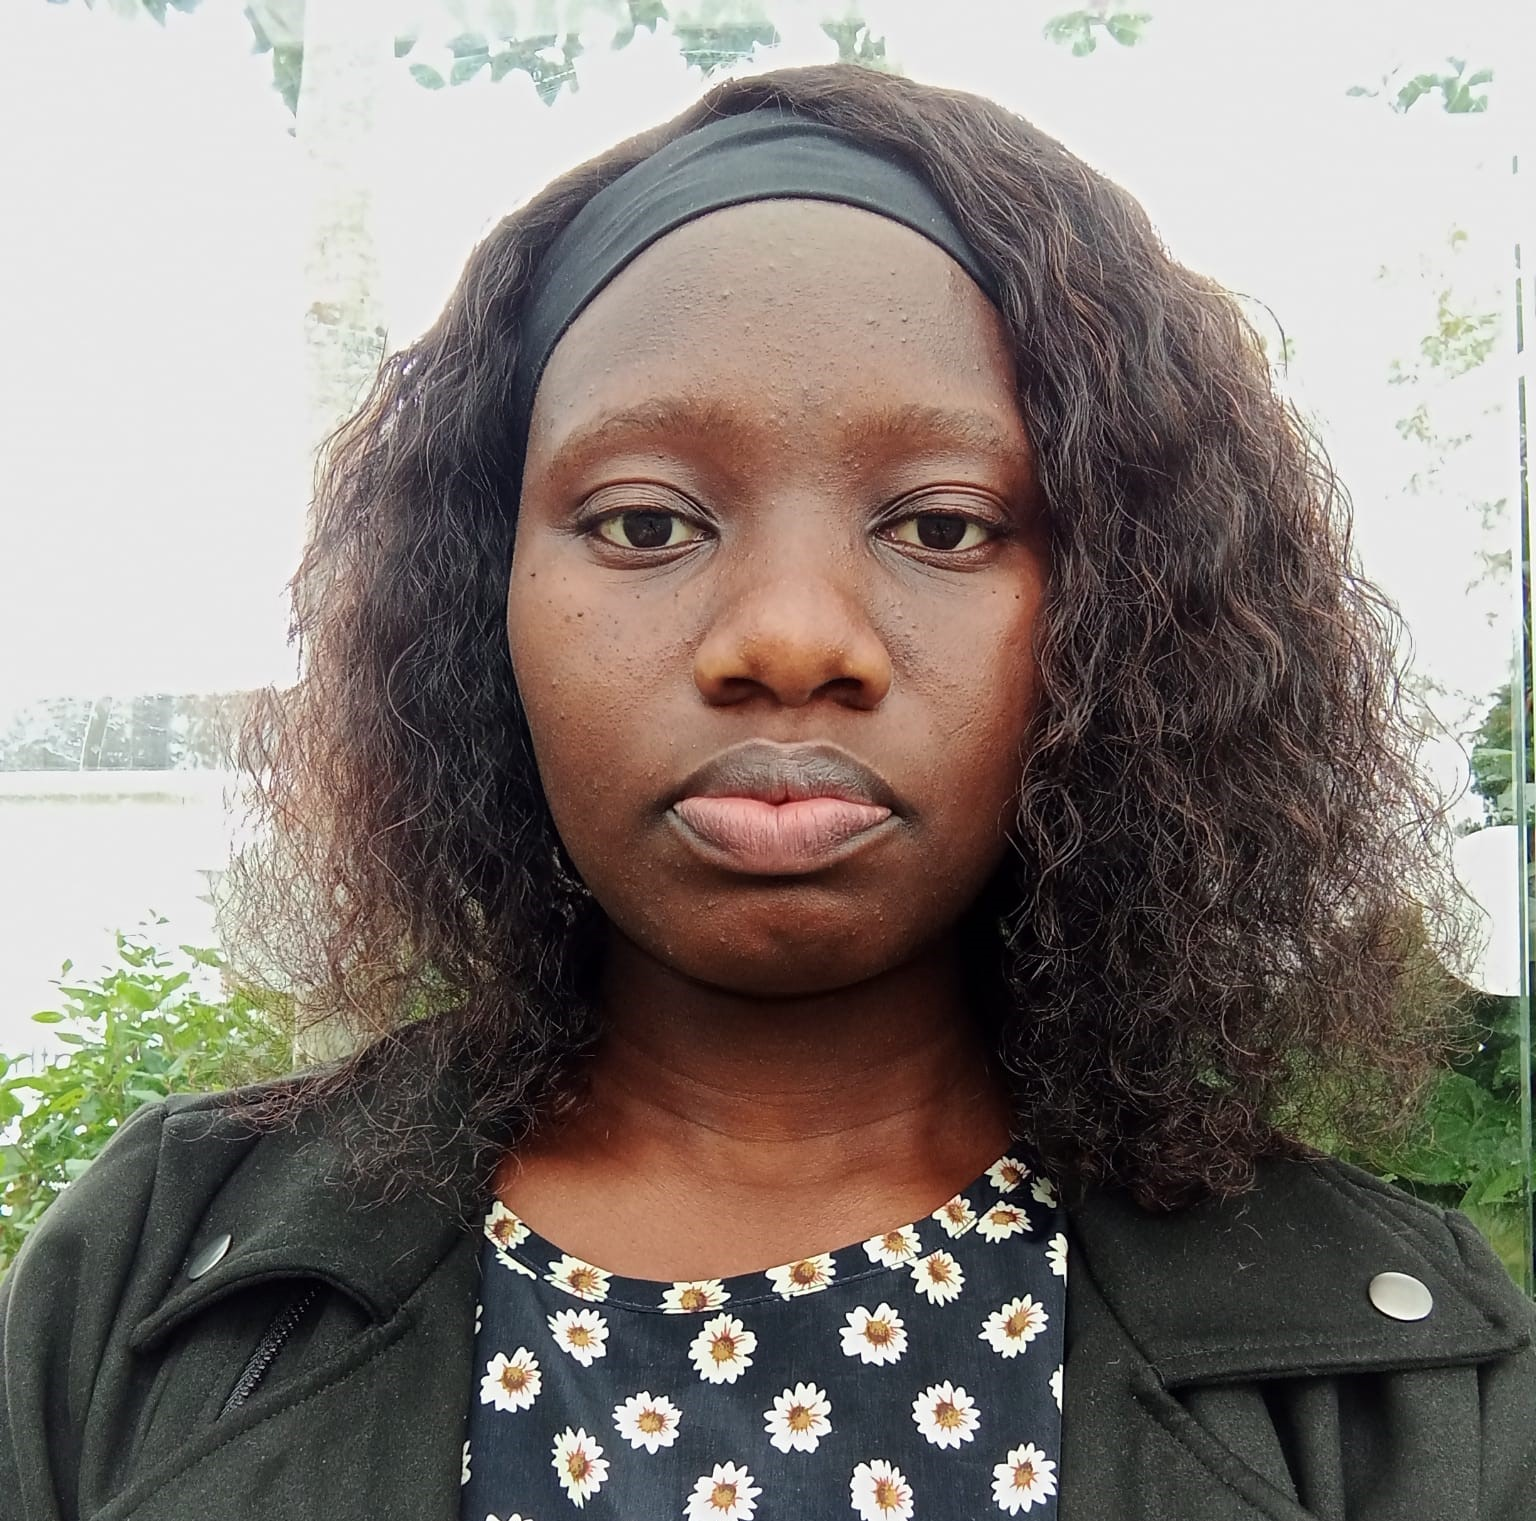
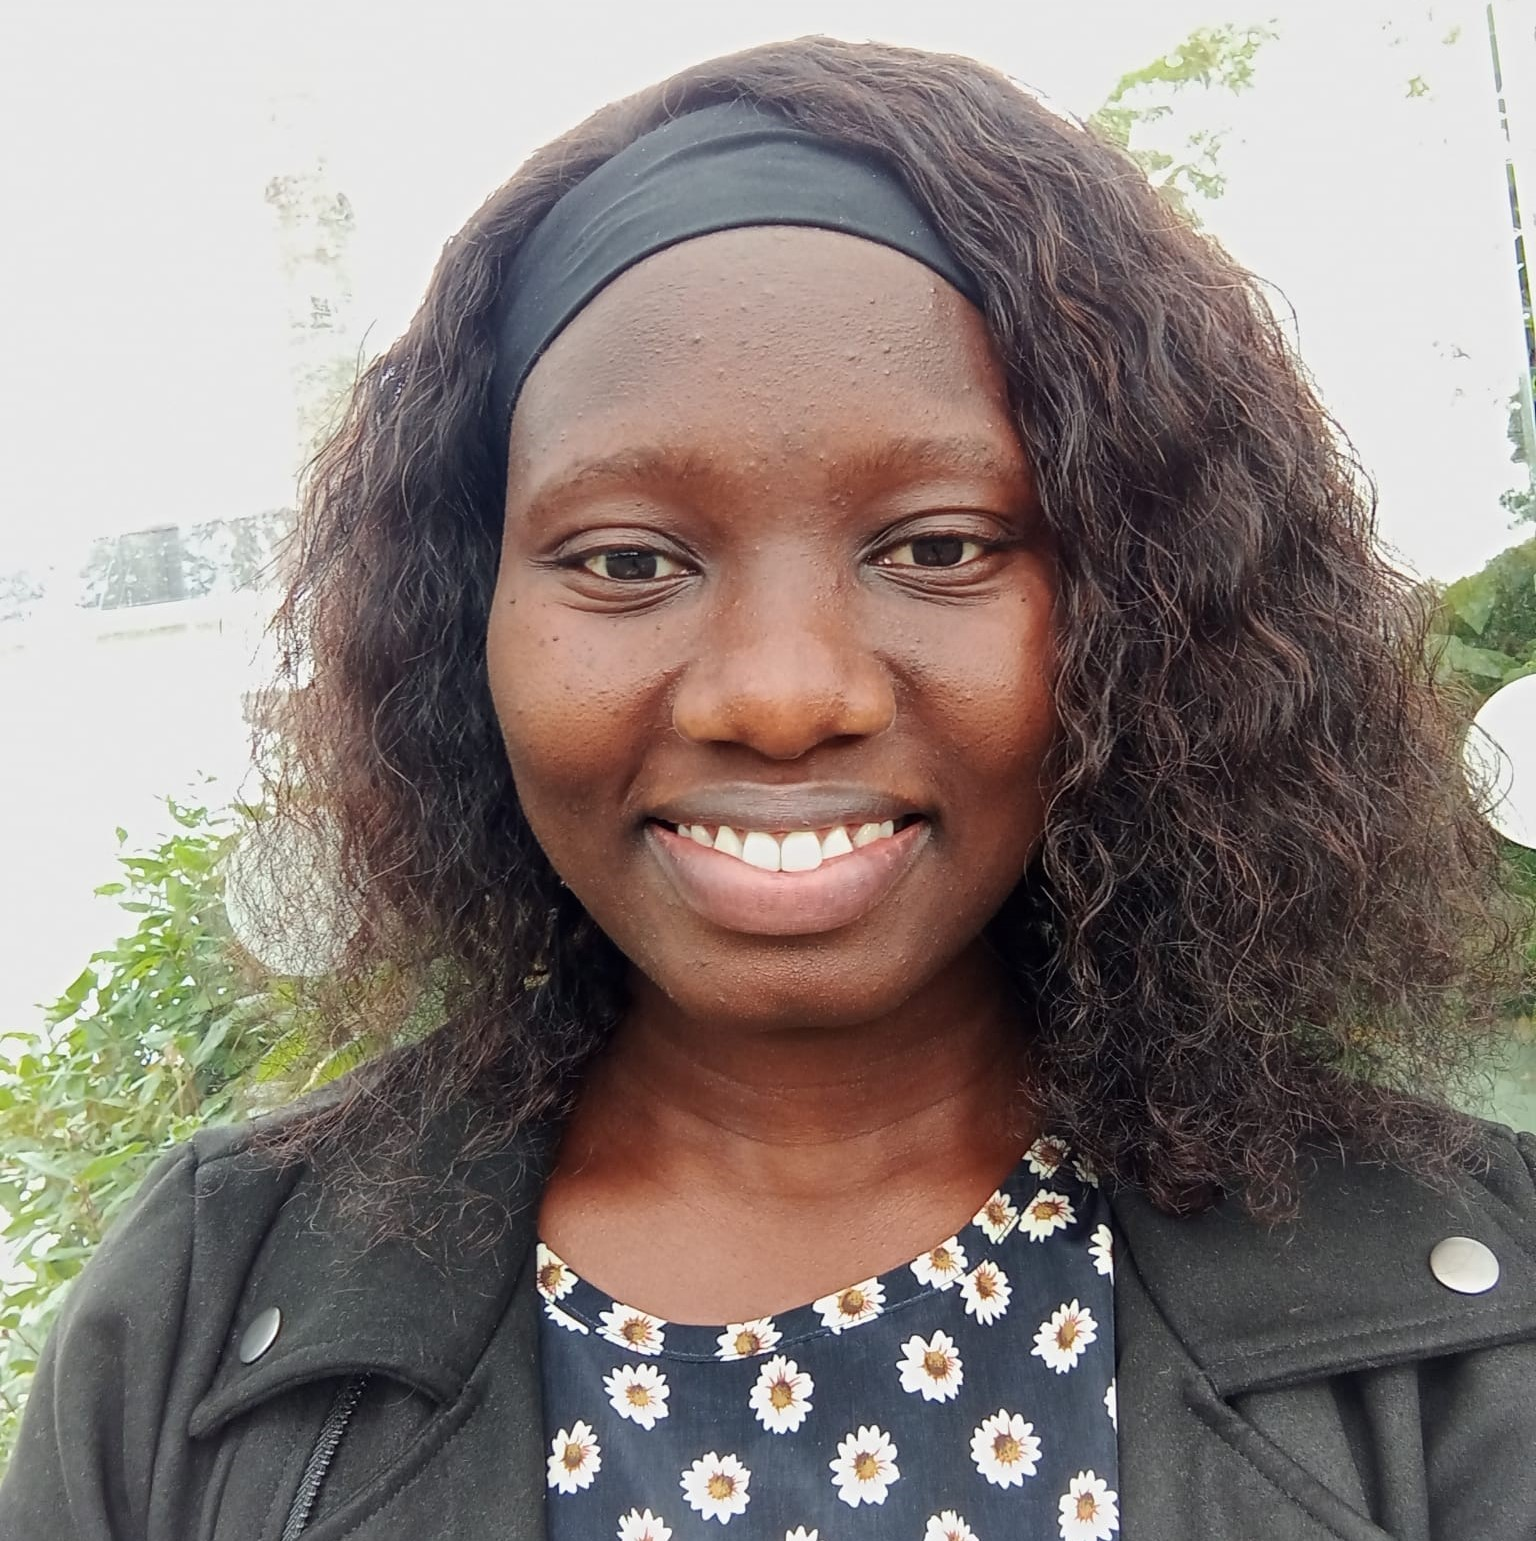
change profil picture

diff --git a/app/_components/Contact.tsx b/app/_components/Contact.tsx
@@ -6,7 +6,7 @@ export const Contact = () => {
     return <Section id="me-contacter" className="flex flex-col items-start gap-4">
     <Badge variant='outline'>Contactez-moi</Badge>
    <h2 className="pb-2 text-3xl font-semibold tracking-tight first:mt-0">
-        Je serais heureux de travailler avec vous !
+        Je serais heureuse de travailler avec vous !
     </h2>
     <div className="md:grid md:grid-cols-3 md:gap-6 flex max-md:flex-col gap-4 w-full h-auto">
         <ContactCard

diff --git a/next-sitemap.config.js b/next-sitemap.config.js
@@ -1,5 +1,5 @@
 /** @type {import('next-sitemap').IConfig} */
 module.exports = {
-    siteUrl: 'https://agathe-portfolio-h9cryey64-gnilane95s-projects.vercel.app/',
+    siteUrl: 'https://agathe-portfolio.vercel.app/',
     generateRobotsTxt: true, 
   };
